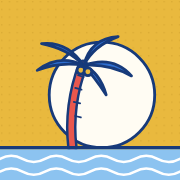
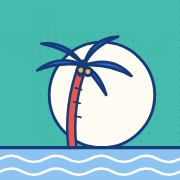
Give the Phu Quoc app a lagoon-teal theme

diff --git a/index.html b/index.html
@@ -5,7 +5,7 @@
 <meta name="viewport" content="width=device-width,initial-scale=1,viewport-fit=cover">
 <meta name="apple-mobile-web-app-capable" content="yes">
 <meta name="apple-mobile-web-app-title" content="晃晃签">
-<meta name="theme-color" content="#E9B93E">
+<meta name="theme-color" content="#45BCAE">
 <title>富国岛晃晃签</title>
 <link rel="manifest" href="manifest.webmanifest">
 <link rel="apple-touch-icon" href="icon-180.png">
@@ -15,7 +15,7 @@
 <link href="https://fonts.googleapis.com/css2?family=Fredoka:wght@500;600;700&family=Noto+Sans+SC:wght@400;500;700&family=ZCOOL+KuaiLe&display=swap" rel="stylesheet">
 <style>
 :root{
-  --mustard:#E9B93E; --navy:#173A7A; --blue:#2F6FD0; --sky:#8CC3F0; --ice:#EAF4FC;
+  --mustard:#E9B93E; --theme:#45BCAE; --navy:#173A7A; --blue:#2F6FD0; --sky:#8CC3F0; --ice:#EAF4FC;
   --coral:#E9574D; --pink:#F6B9B2; --cream:#FFFCF3; --white:#fff;
   --line:2px solid var(--navy);
   --display:'ZCOOL KuaiLe','Fredoka','PingFang SC',sans-serif;
@@ -23,9 +23,9 @@
   --body:'Noto Sans SC','PingFang SC','Hiragino Sans',sans-serif;
 }
 *{box-sizing:border-box;-webkit-tap-highlight-color:transparent}
-html{background:var(--mustard)}
+html{background:var(--theme)}
 body{margin:0;font-family:var(--body);color:var(--navy);font-size:15px;line-height:1.6;
-  background:var(--mustard) radial-gradient(rgba(23,58,122,.13) 1.2px,transparent 1.4px) 0 0/14px 14px;min-height:100vh}
+  background:var(--theme) radial-gradient(rgba(23,58,122,.13) 1.2px,transparent 1.4px) 0 0/14px 14px;min-height:100vh}
 button{font:inherit;color:inherit;cursor:pointer;background:none;border:0;padding:0}
 a{color:inherit}
 .app{max-width:480px;margin:0 auto;padding:calc(14px + env(safe-area-inset-top)) 16px calc(96px + env(safe-area-inset-bottom))}
@@ -208,7 +208,7 @@ h4.mine{font-family:var(--display);font-weight:400;font-size:18px;margin:18px 0 
 .slot.got.pic>img{width:100%;height:100%;object-fit:cover;display:block}
 .slot.got.pic .stamp{position:absolute;right:-4%;bottom:-4%;width:58%;mix-blend-mode:normal;background:rgba(255,252,243,.9);border-radius:50%}
 .slot.got.pic em{position:absolute;left:5px;top:5px;background:var(--navy);color:#fff;font-style:normal;font-size:11px;font-weight:700;border-radius:999px;padding:0 7px}
-.recap-prev{background:var(--mustard);border:var(--line);border-radius:16px;padding:12px;margin:46px 0 4px;text-align:center;min-height:200px;display:grid;place-items:center}
+.recap-prev{background:var(--theme);border:var(--line);border-radius:16px;padding:12px;margin:46px 0 4px;text-align:center;min-height:200px;display:grid;place-items:center}
 .recap-prev img{max-width:100%;max-height:62vh;display:block;margin:0 auto;box-shadow:4px 4px 0 var(--navy);-webkit-touch-callout:default}
 input.line{width:100%;font:inherit;color:inherit;border:var(--line);border-radius:999px;padding:9px 16px;background:var(--white)}
 
@@ -808,7 +808,7 @@ function paintRecap(){
   }).catch(function(){var m=$('#recapMsg'); if(m) m.textContent='没画出来，再点一次「换个排法」试试。'});
 }
 function drawRecap(fmt,items,got,line,seed){
-  var NAVY='#173A7A',MUST='#E9B93E',BLUE='#2F6FD0',SKY='#8CC3F0',CORAL='#E9574D',CREAM='#FFFCF3';
+  var NAVY='#173A7A',MUST='#E9B93E',BLUE='#2F6FD0',SKY='#8CC3F0',CORAL='#E9574D',CREAM='#FFFCF3',THEME='#45BCAE';
   var story=fmt==='story', Wd=1080, Hd=story?1920:1350, c=document.createElement('canvas'); c.width=Wd; c.height=Hd;
   var x=c.getContext('2d'), R=rng(seed*7919+items.length), DISP='"ZCOOL KuaiLe","PingFang SC",sans-serif', LAT='Fredoka,"ZCOOL KuaiLe",sans-serif', BODY='"Noto Sans SC","PingFang SC",sans-serif';
   function spaced(t,cx,y,gap){var ws=[].map.call(t,function(ch){return x.measureText(ch).width}), tot=ws.reduce(function(a,b){return a+b},0)+gap*(t.length-1), px=cx-tot/2; x.textAlign='left'; [].forEach.call(t,function(ch,i){x.fillText(ch,px,y); px+=ws[i]+gap}); x.textAlign='center'}
@@ -832,7 +832,7 @@ function drawRecap(fmt,items,got,line,seed){
     x.restore();
   }
   // 底色与圆点
-  x.fillStyle=MUST; x.fillRect(0,0,Wd,Hd); x.fillStyle='rgba(23,58,122,.13)';
+  x.fillStyle=THEME; x.fillRect(0,0,Wd,Hd); x.fillStyle='rgba(23,58,122,.13)';
   for(var dy=14;dy<Hd;dy+=28) for(var dx=14;dx<Wd;dx+=28){x.beginPath(); x.arc(dx,dy,2.6,0,7); x.fill()}
   // 海报纸
   var px=44, py=story?150:44, pw=Wd-88, ph=Hd-py*2;
